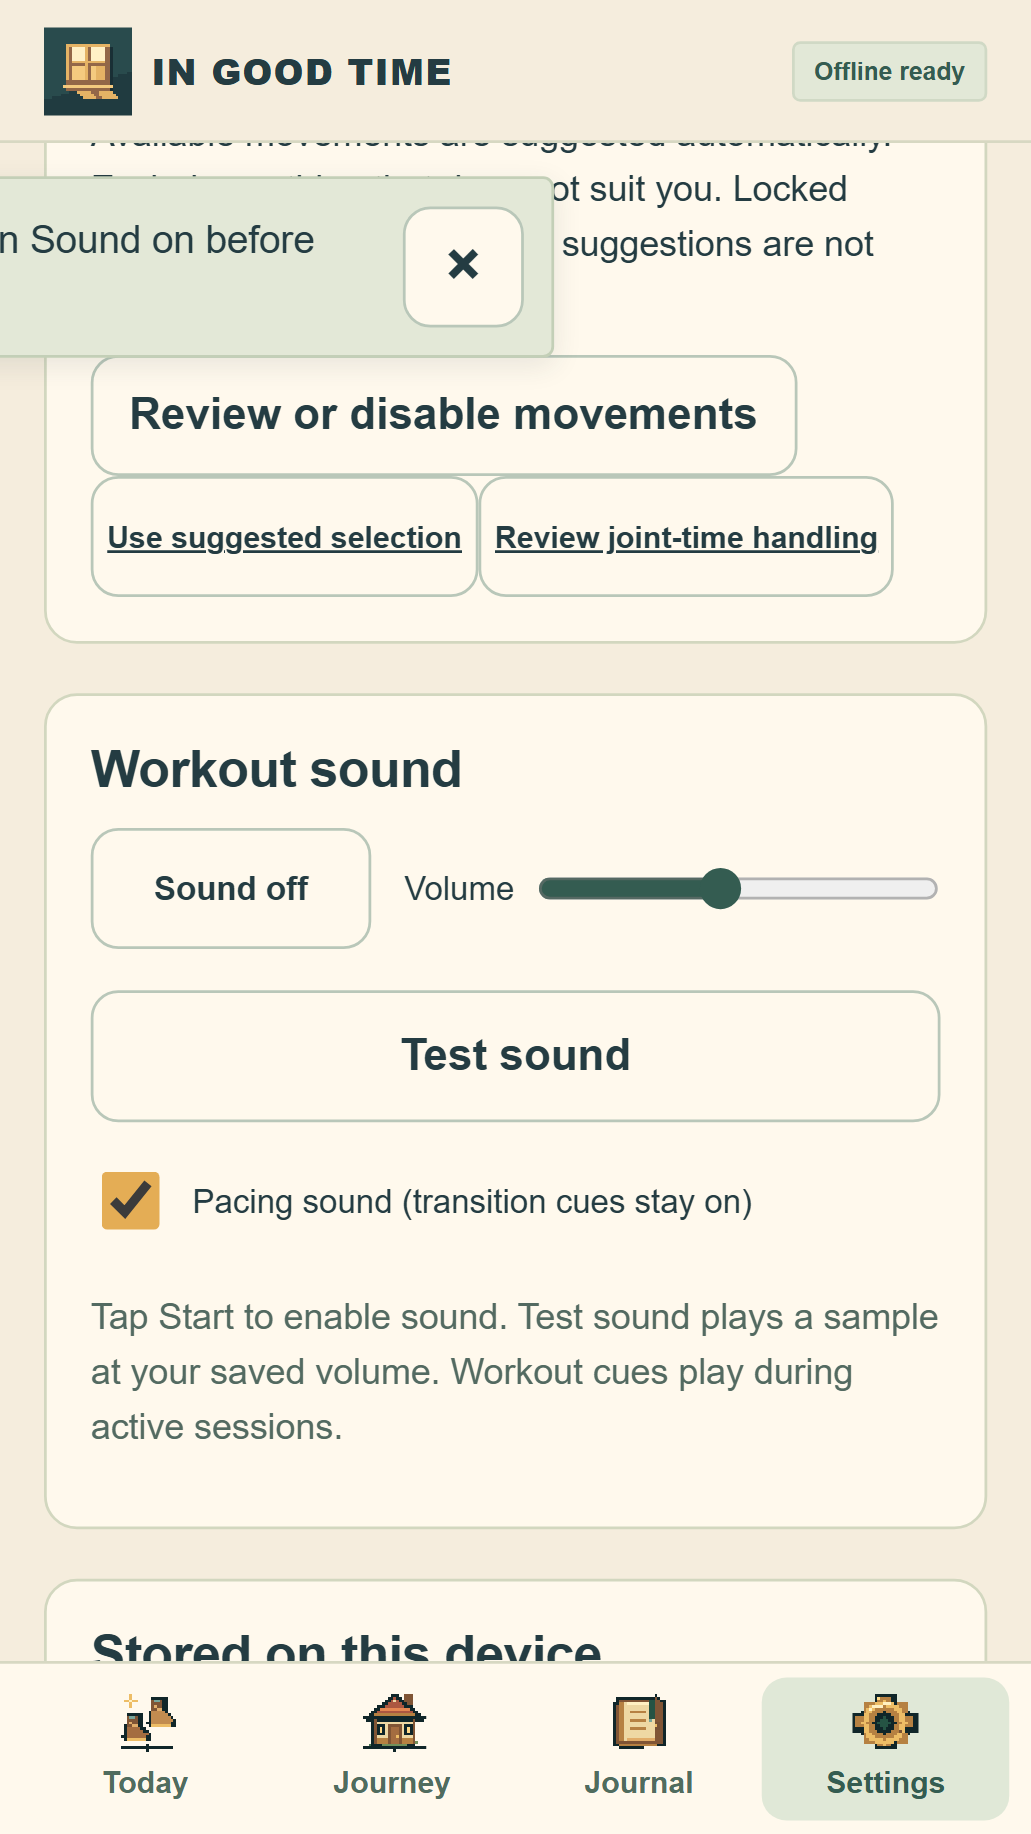
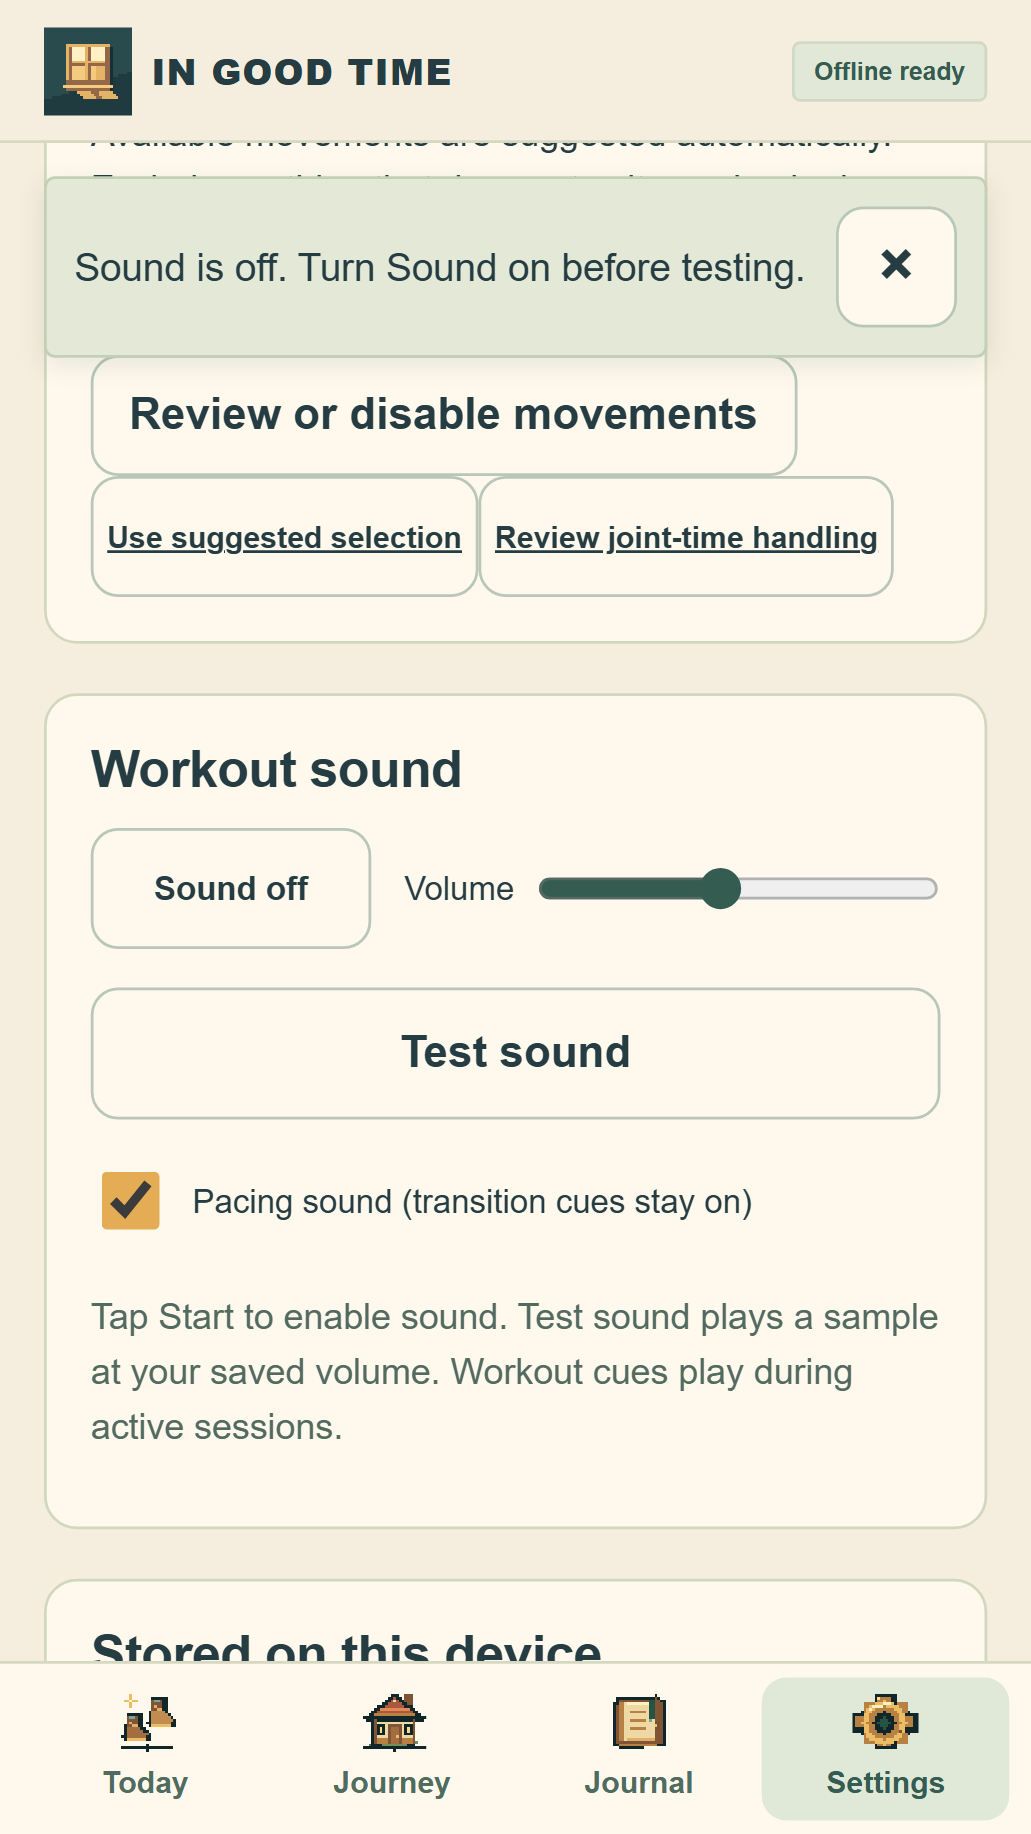
Verify final polish notice bounds and offline release [skip ci]

Changed region(s): [[0.0, 0.0932, 0.9622, 0.2176], [0.0931, 0.5284, 0.9001, 0.5905]]

diff --git a/docs/ai_dev_log.md b/docs/ai_dev_log.md
@@ -1,3 +1,10 @@
+## 2026-11-01 - Final polish correction deployed and verified
+
+- Final source153771e6097f2902d32dfd1a20b96298a579875d deployed via successful run41355095078:166 unit/art PASS,57 hosted mobile PASS,1 expected WebKit codec skip. Every original and expanded release check retained.
+- Live Builde82e115cb0cb verified in isolated iPhone-sized WebKit and Android Chromium: entire notice bounds fit the viewport, text/dismiss control fully readable;16px forms, header navigation without reload, full state restored offline, no history/reward changes, no overflow/page errors. Corrected live iPhone screenshot visually inspected after verification. Live screenshots/results updated in screenshots/polish.
+- Polish pass complete. The earlier notice claim/build13f89f75f6c2 is superseded by this correction; the inherited transform and weak partial-visibility check are fixed. No training policy, eligibility, artwork, data/reward schema or dependency changes. Closeout is documentation/screenshots only and skips redundant CI.
+- Next: owner's planned week of use. No further implementation or artwork required before the trial. Use Settings build e82e115cb0cb; update online, close/reopen all app windows if Update ready appears, without deleting app data. Bring back concrete friction/variety/comfort or visual feedback.
+
 ## 2026-11-01 - Live visual review catches inherited notice transform
 
 - Hosted gate41354323265 passed57 mobile cases and166 unit/art, but final live screenshot review exposed a notice shifted partly off the left edge. The legacy chapter toast retained left50%/translateX(-50%) after the sticky-position override. The prior partial-visibility assertion missed this clipping; the release is not considered closed until corrected.

diff --git a/docs/alpha_mobile.md b/docs/alpha_mobile.md
@@ -3,7 +3,7 @@
 App address: https://hecticmike.github.io/little-strides/
 Source: https://github.com/HecticMike/little-strides
 
-Current verified build: **13f89f75f6c2** (pre-week mobile polish).
+Current verified build: **e82e115cb0cb** (pre-week mobile polish).
 
 The comeback alpha is published. Settings must show **Comeback alpha**, a
 twelve-character Build identifier, and five character builds under **What to expect
